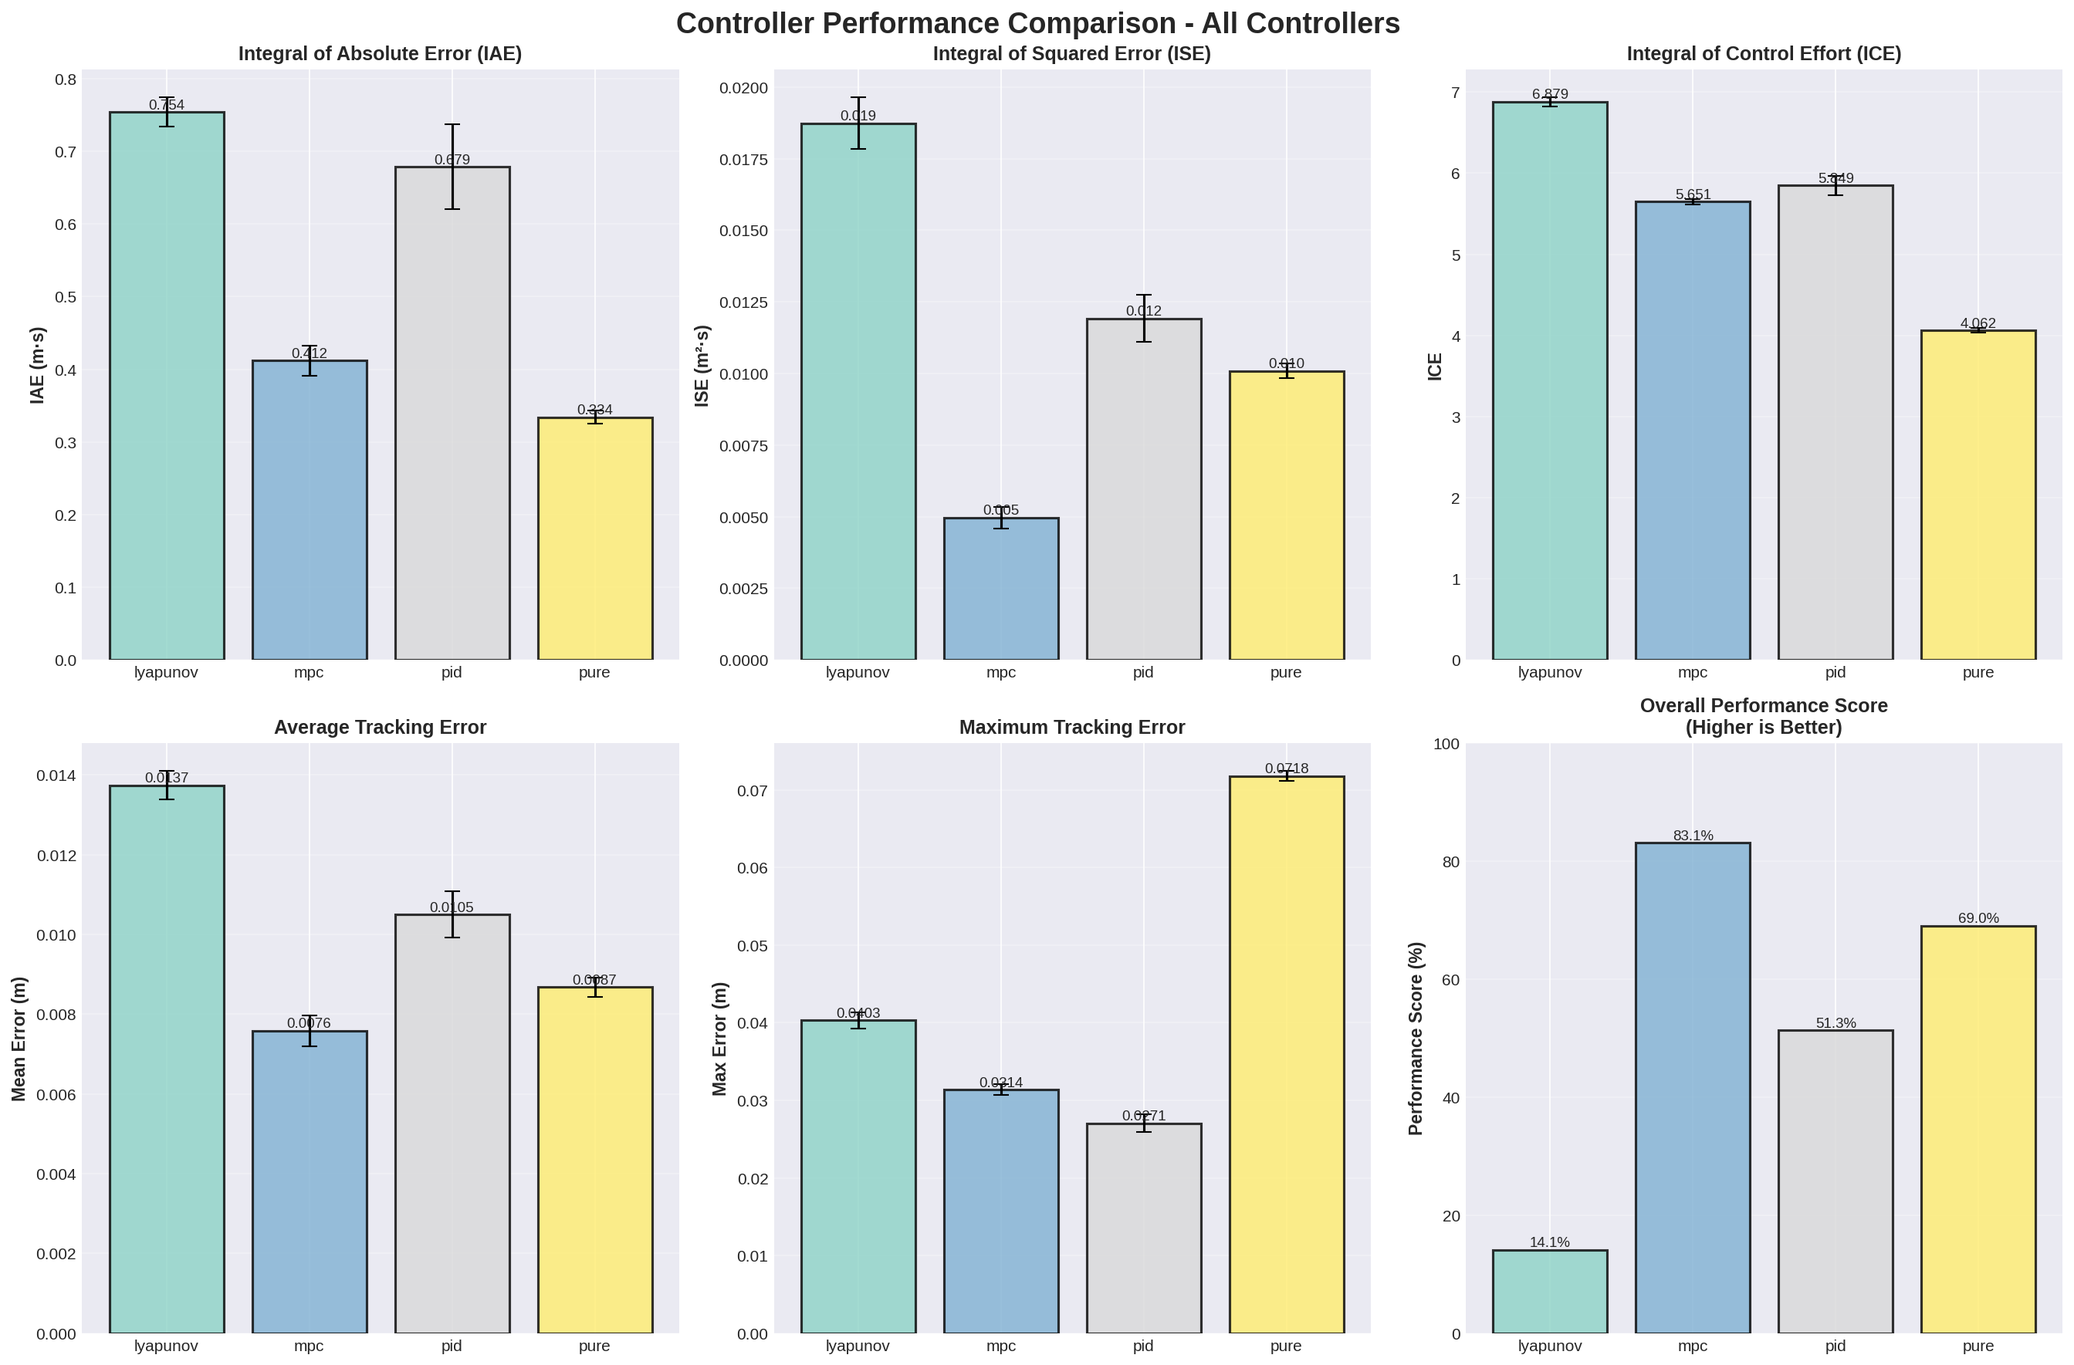
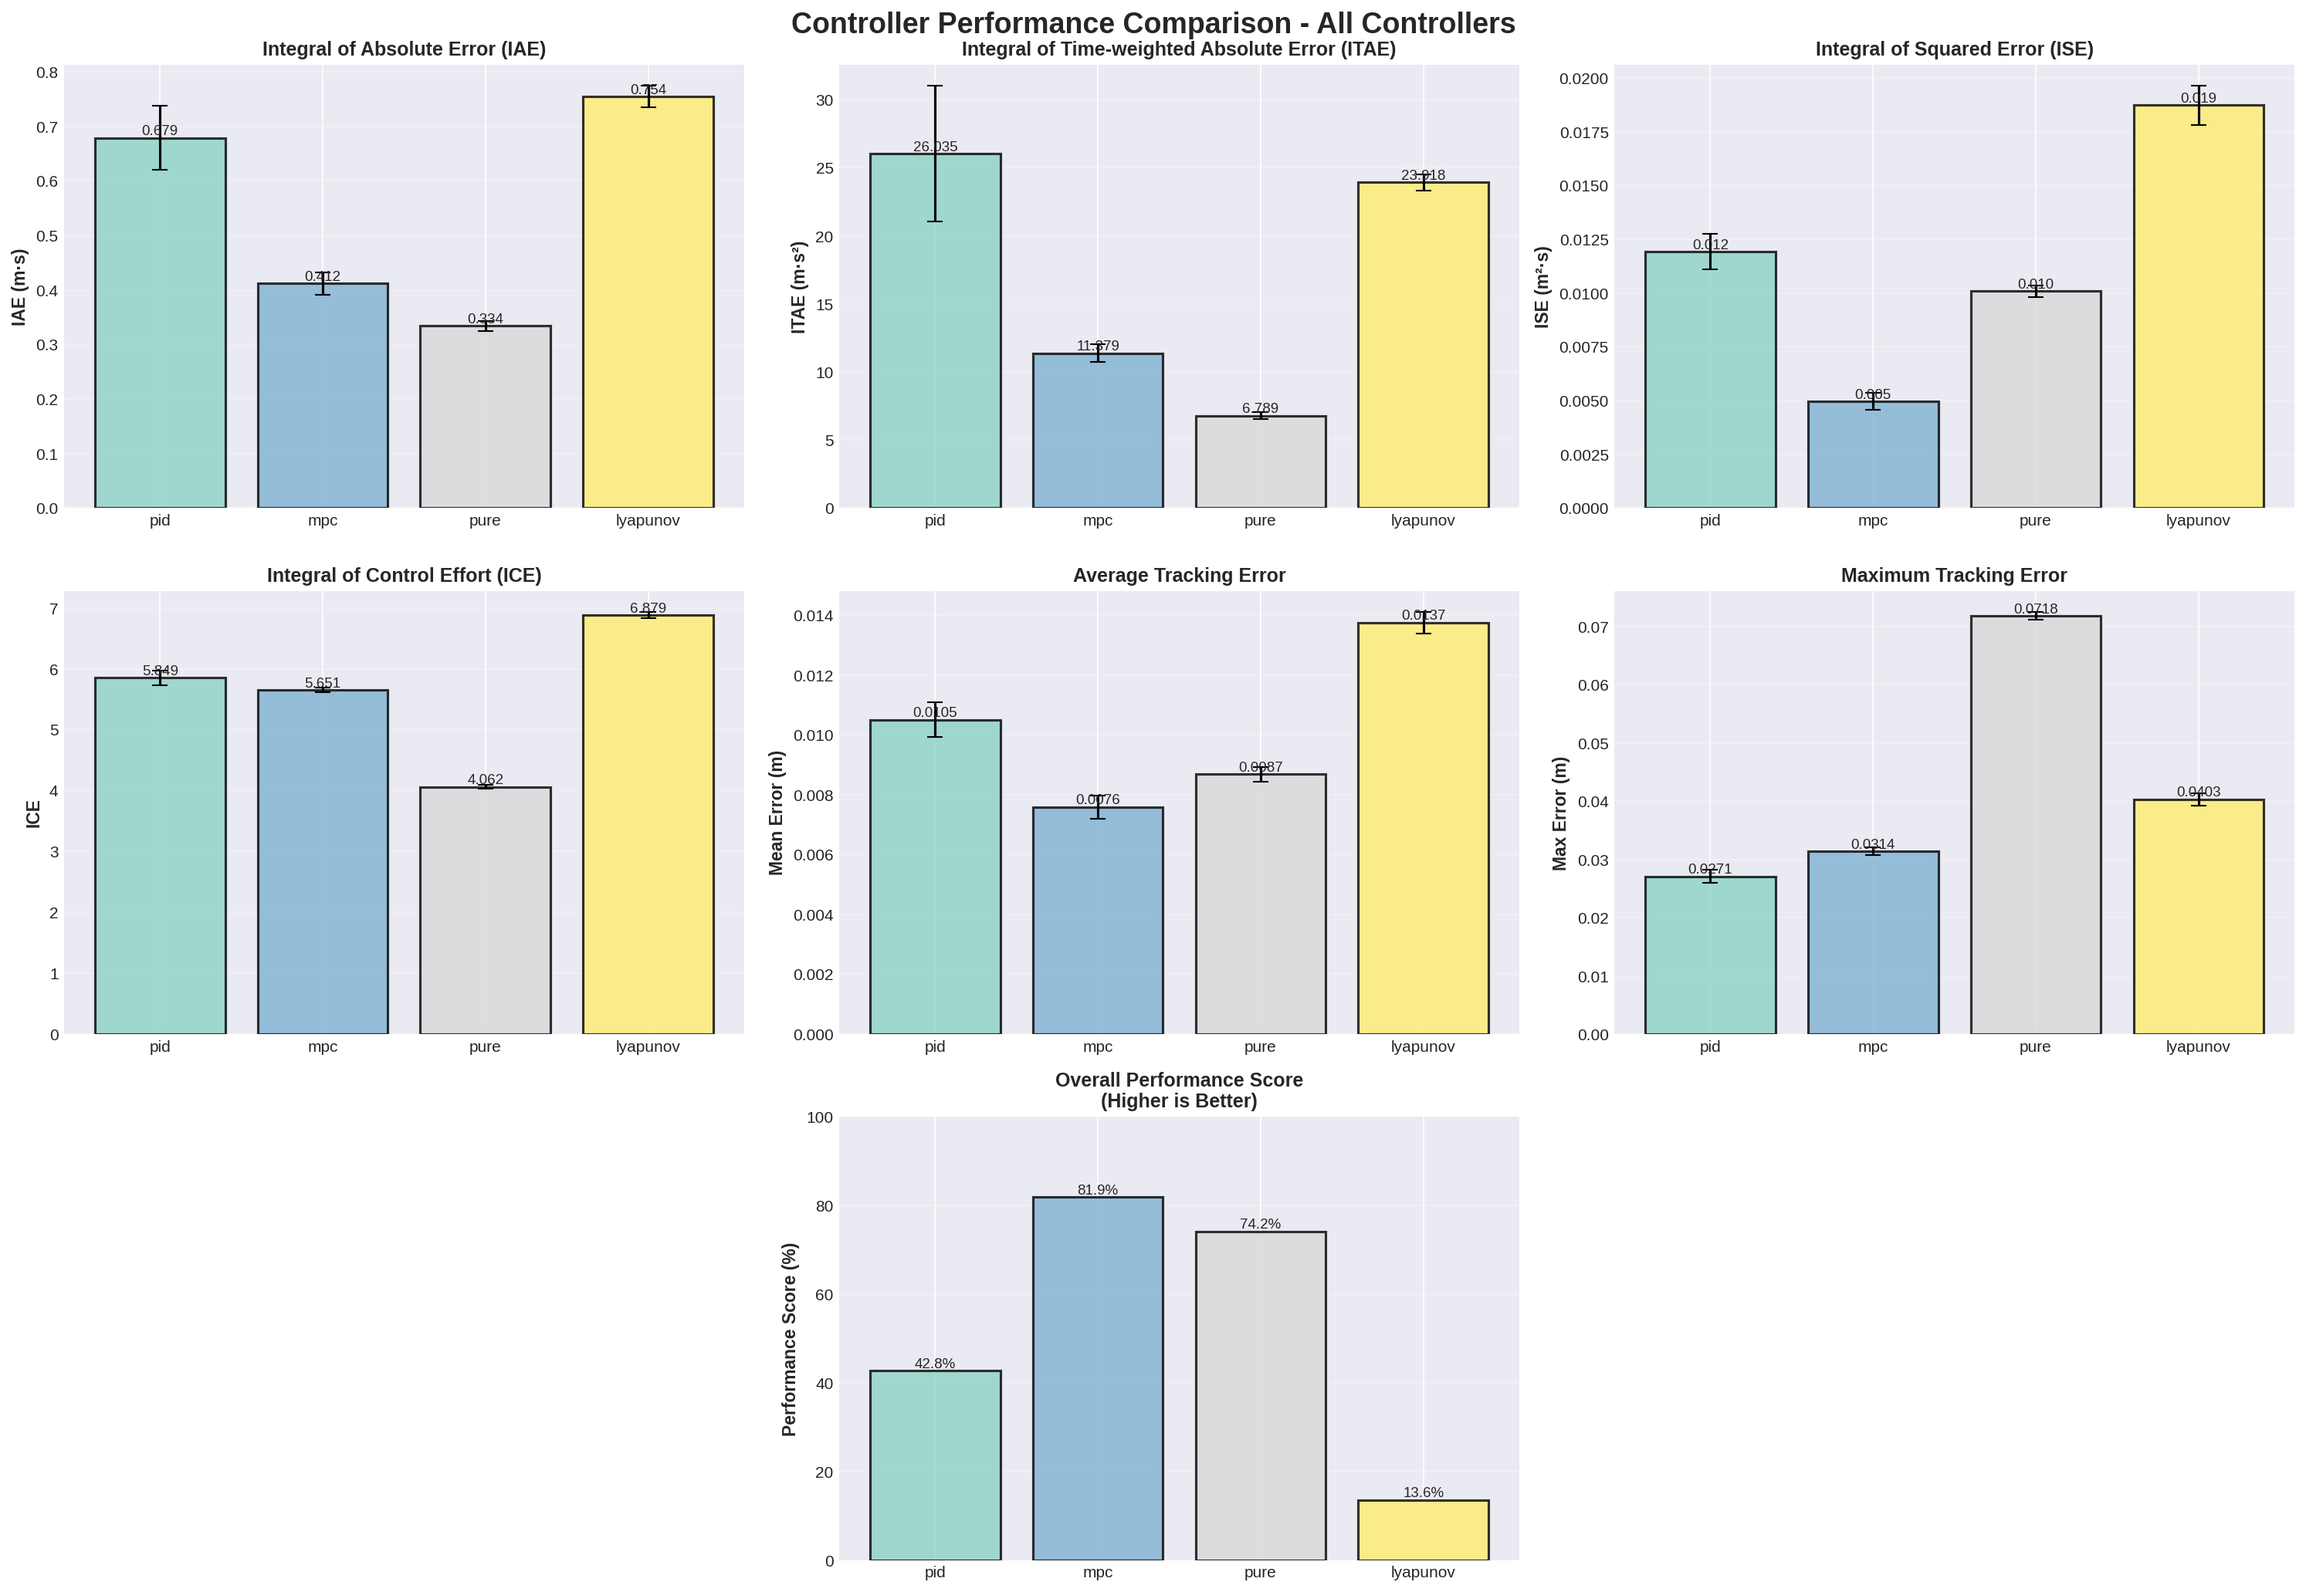
Add ITAE metric to performance visualization charts
- Include ITAE (Integral of Time-weighted Absolute Error) in all comparisons
- Update chart layout from 2x3 to 3x3 grid to accommodate 7 charts
- Add ITAE bar chart to summary comparison (position 2)
- Include ITAE in statistics table with mean ± std
- Update performance score calculation to include ITAE
- Increase figure size to 20x14 for better readability

Charts now display:
1. IAE - Integral of Absolute Error
2. ITAE - Integral of Time-weighted Absolute Error (NEW)
3. ISE - Integral of Squared Error
4. ICE - Integral of Control Effort
5. Mean Error
6. Max Error
7. Overall Performance Score

ITAE penalizes errors that persist over time more heavily, making it valuable for evaluating controller convergence speed.

diff --git a/generate_performance_charts.py b/generate_performance_charts.py
@@ -175,6 +175,7 @@ def generate_summary_comparison(directory_path, output_dir='charts'):
 
             metrics = {
                 'IAE': np.trapezoid(np.abs(err), t),
+                'ITAE': np.trapezoid(t * np.abs(err), t),
                 'ISE': np.trapezoid(err**2, t),
                 'ICE': np.trapezoid(v**2 + w**2, t),
                 'max_error': np.max(np.abs(err)),
@@ -202,7 +203,7 @@ def generate_summary_comparison(directory_path, output_dir='charts'):
             }
 
     # Create comprehensive comparison figure
-    fig = plt.figure(figsize=(18, 12))
+    fig = plt.figure(figsize=(20, 14))
     fig.suptitle('Controller Performance Comparison - All Controllers',
                  fontsize=18, fontweight='bold')
 
@@ -210,7 +211,7 @@ def generate_summary_comparison(directory_path, output_dir='charts'):
     colors = plt.cm.Set3(np.linspace(0, 1, len(controllers)))
 
     # 1. IAE Comparison
-    ax1 = plt.subplot(2, 3, 1)
+    ax1 = plt.subplot(3, 3, 1)
     means = [controller_stats[c]['IAE']['mean'] for c in controllers]
     stds = [controller_stats[c]['IAE']['std'] for c in controllers]
     bars = ax1.bar(controllers, means, yerr=stds, capsize=5, color=colors,
@@ -224,66 +225,80 @@ def generate_summary_comparison(directory_path, output_dir='charts'):
         ax1.text(bar.get_x() + bar.get_width()/2., height,
                 f'{height:.3f}', ha='center', va='bottom', fontsize=9)
 
-    # 2. ISE Comparison
-    ax2 = plt.subplot(2, 3, 2)
-    means = [controller_stats[c]['ISE']['mean'] for c in controllers]
-    stds = [controller_stats[c]['ISE']['std'] for c in controllers]
+    # 2. ITAE Comparison
+    ax2 = plt.subplot(3, 3, 2)
+    means = [controller_stats[c]['ITAE']['mean'] for c in controllers]
+    stds = [controller_stats[c]['ITAE']['std'] for c in controllers]
     bars = ax2.bar(controllers, means, yerr=stds, capsize=5, color=colors,
                    edgecolor='black', linewidth=1.5, alpha=0.8)
-    ax2.set_ylabel('ISE (m²·s)', fontsize=11, fontweight='bold')
-    ax2.set_title('Integral of Squared Error (ISE)', fontweight='bold', fontsize=12)
+    ax2.set_ylabel('ITAE (m·s²)', fontsize=11, fontweight='bold')
+    ax2.set_title('Integral of Time-weighted Absolute Error (ITAE)', fontweight='bold', fontsize=12)
     ax2.grid(True, alpha=0.3, axis='y')
     for bar in bars:
         height = bar.get_height()
         ax2.text(bar.get_x() + bar.get_width()/2., height,
                 f'{height:.3f}', ha='center', va='bottom', fontsize=9)
 
-    # 3. ICE Comparison
-    ax3 = plt.subplot(2, 3, 3)
-    means = [controller_stats[c]['ICE']['mean'] for c in controllers]
-    stds = [controller_stats[c]['ICE']['std'] for c in controllers]
+    # 3. ISE Comparison
+    ax3 = plt.subplot(3, 3, 3)
+    means = [controller_stats[c]['ISE']['mean'] for c in controllers]
+    stds = [controller_stats[c]['ISE']['std'] for c in controllers]
     bars = ax3.bar(controllers, means, yerr=stds, capsize=5, color=colors,
                    edgecolor='black', linewidth=1.5, alpha=0.8)
-    ax3.set_ylabel('ICE', fontsize=11, fontweight='bold')
-    ax3.set_title('Integral of Control Effort (ICE)', fontweight='bold', fontsize=12)
+    ax3.set_ylabel('ISE (m²·s)', fontsize=11, fontweight='bold')
+    ax3.set_title('Integral of Squared Error (ISE)', fontweight='bold', fontsize=12)
     ax3.grid(True, alpha=0.3, axis='y')
     for bar in bars:
         height = bar.get_height()
         ax3.text(bar.get_x() + bar.get_width()/2., height,
                 f'{height:.3f}', ha='center', va='bottom', fontsize=9)
 
-    # 4. Mean Error Comparison
-    ax4 = plt.subplot(2, 3, 4)
-    means = [controller_stats[c]['mean_error']['mean'] for c in controllers]
-    stds = [controller_stats[c]['mean_error']['std'] for c in controllers]
+    # 4. ICE Comparison
+    ax4 = plt.subplot(3, 3, 4)
+    means = [controller_stats[c]['ICE']['mean'] for c in controllers]
+    stds = [controller_stats[c]['ICE']['std'] for c in controllers]
     bars = ax4.bar(controllers, means, yerr=stds, capsize=5, color=colors,
                    edgecolor='black', linewidth=1.5, alpha=0.8)
-    ax4.set_ylabel('Mean Error (m)', fontsize=11, fontweight='bold')
-    ax4.set_title('Average Tracking Error', fontweight='bold', fontsize=12)
+    ax4.set_ylabel('ICE', fontsize=11, fontweight='bold')
+    ax4.set_title('Integral of Control Effort (ICE)', fontweight='bold', fontsize=12)
     ax4.grid(True, alpha=0.3, axis='y')
     for bar in bars:
         height = bar.get_height()
         ax4.text(bar.get_x() + bar.get_width()/2., height,
-                f'{height:.4f}', ha='center', va='bottom', fontsize=9)
+                f'{height:.3f}', ha='center', va='bottom', fontsize=9)
 
-    # 5. Max Error Comparison
-    ax5 = plt.subplot(2, 3, 5)
-    means = [controller_stats[c]['max_error']['mean'] for c in controllers]
-    stds = [controller_stats[c]['max_error']['std'] for c in controllers]
+    # 5. Mean Error Comparison
+    ax5 = plt.subplot(3, 3, 5)
+    means = [controller_stats[c]['mean_error']['mean'] for c in controllers]
+    stds = [controller_stats[c]['mean_error']['std'] for c in controllers]
     bars = ax5.bar(controllers, means, yerr=stds, capsize=5, color=colors,
                    edgecolor='black', linewidth=1.5, alpha=0.8)
-    ax5.set_ylabel('Max Error (m)', fontsize=11, fontweight='bold')
-    ax5.set_title('Maximum Tracking Error', fontweight='bold', fontsize=12)
+    ax5.set_ylabel('Mean Error (m)', fontsize=11, fontweight='bold')
+    ax5.set_title('Average Tracking Error', fontweight='bold', fontsize=12)
     ax5.grid(True, alpha=0.3, axis='y')
     for bar in bars:
         height = bar.get_height()
         ax5.text(bar.get_x() + bar.get_width()/2., height,
                 f'{height:.4f}', ha='center', va='bottom', fontsize=9)
 
-    # 6. Overall Performance Score (normalized)
-    ax6 = plt.subplot(2, 3, 6)
+    # 6. Max Error Comparison
+    ax6 = plt.subplot(3, 3, 6)
+    means = [controller_stats[c]['max_error']['mean'] for c in controllers]
+    stds = [controller_stats[c]['max_error']['std'] for c in controllers]
+    bars = ax6.bar(controllers, means, yerr=stds, capsize=5, color=colors,
+                   edgecolor='black', linewidth=1.5, alpha=0.8)
+    ax6.set_ylabel('Max Error (m)', fontsize=11, fontweight='bold')
+    ax6.set_title('Maximum Tracking Error', fontweight='bold', fontsize=12)
+    ax6.grid(True, alpha=0.3, axis='y')
+    for bar in bars:
+        height = bar.get_height()
+        ax6.text(bar.get_x() + bar.get_width()/2., height,
+                f'{height:.4f}', ha='center', va='bottom', fontsize=9)
+
+    # 7. Overall Performance Score (normalized)
+    ax7 = plt.subplot(3, 3, 8)
     # Normalize metrics (lower is better, so invert)
-    metrics_to_score = ['IAE', 'ISE', 'ICE', 'mean_error', 'max_error']
+    metrics_to_score = ['IAE', 'ITAE', 'ISE', 'ICE', 'mean_error', 'max_error']
     scores = []
 
     for controller in controllers:
@@ -294,16 +309,16 @@ def generate_summary_comparison(directory_path, output_dir='charts'):
             score += normalized
         scores.append(score / len(metrics_to_score) * 100)  # Convert to percentage
 
-    bars = ax6.bar(controllers, scores, color=colors, edgecolor='black',
+    bars = ax7.bar(controllers, scores, color=colors, edgecolor='black',
                    linewidth=1.5, alpha=0.8)
-    ax6.set_ylabel('Performance Score (%)', fontsize=11, fontweight='bold')
-    ax6.set_title('Overall Performance Score\n(Higher is Better)',
+    ax7.set_ylabel('Performance Score (%)', fontsize=11, fontweight='bold')
+    ax7.set_title('Overall Performance Score\n(Higher is Better)',
                   fontweight='bold', fontsize=12)
-    ax6.set_ylim([0, 100])
-    ax6.grid(True, alpha=0.3, axis='y')
+    ax7.set_ylim([0, 100])
+    ax7.grid(True, alpha=0.3, axis='y')
     for bar in bars:
         height = bar.get_height()
-        ax6.text(bar.get_x() + bar.get_width()/2., height,
+        ax7.text(bar.get_x() + bar.get_width()/2., height,
                 f'{height:.1f}%', ha='center', va='bottom', fontsize=9)
 
     plt.tight_layout()
@@ -335,8 +350,8 @@ def generate_statistics_table(controller_stats, output_dir):
 
     # Prepare table data
     controllers = list(controller_stats.keys())
-    metrics = ['IAE', 'ISE', 'ICE', 'mean_error', 'max_error', 'final_error']
-    metric_names = ['IAE (m·s)', 'ISE (m²·s)', 'ICE', 'Mean Error (m)',
+    metrics = ['IAE', 'ITAE', 'ISE', 'ICE', 'mean_error', 'max_error', 'final_error']
+    metric_names = ['IAE (m·s)', 'ITAE (m·s²)', 'ISE (m²·s)', 'ICE', 'Mean Error (m)',
                     'Max Error (m)', 'Final Error (m)']
 
     table_data = []
